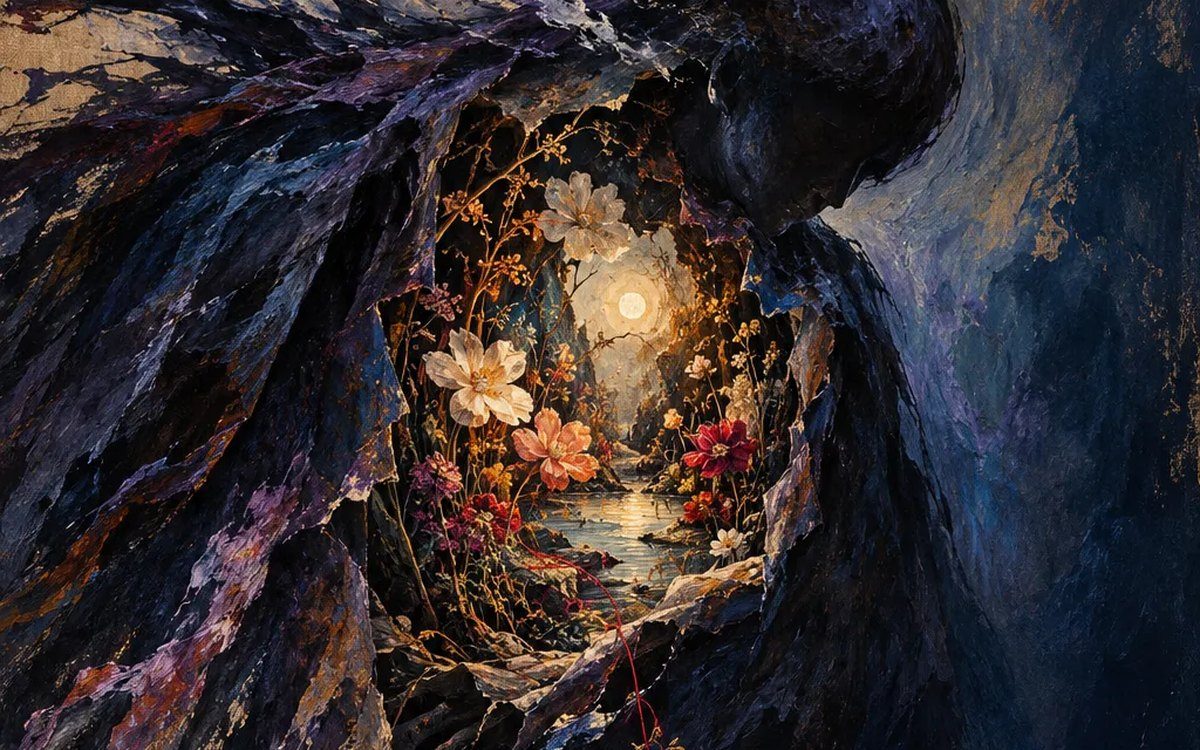
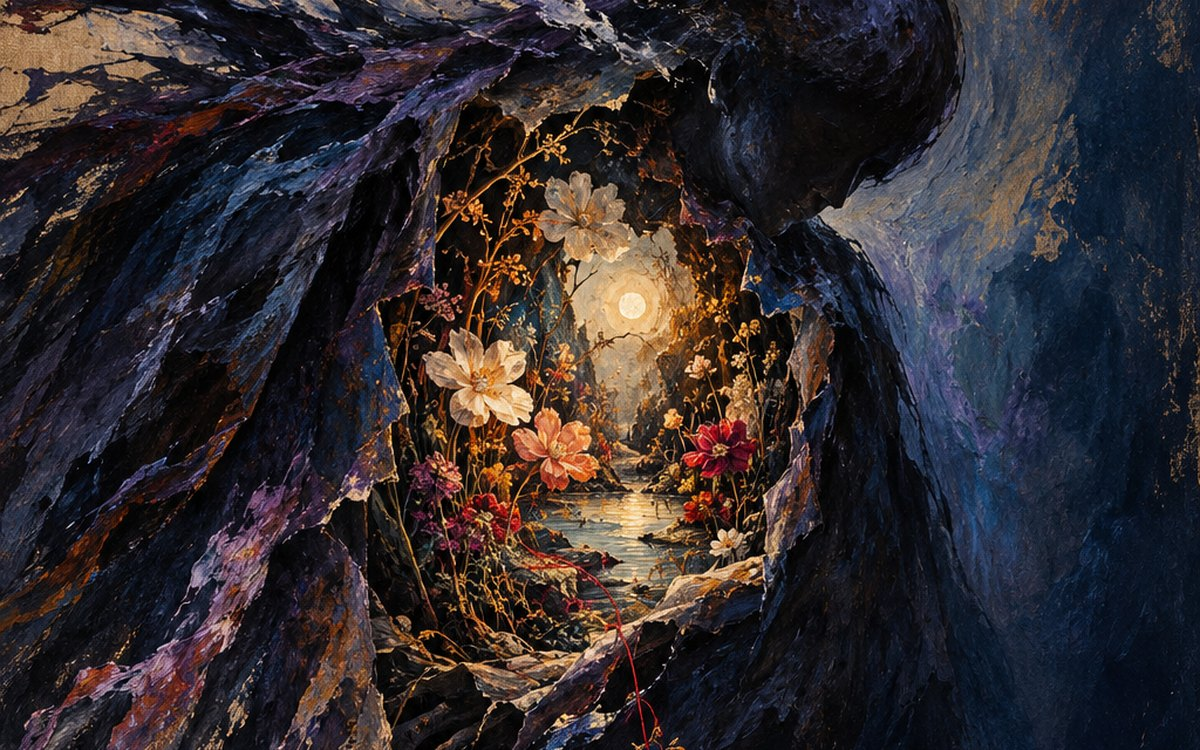
Use the original PNG files for Nos. 06 and 07
Claude-Session: https://claude.ai/code/session_01QQf3zZbCcd9kfNemCMkmx7

Changed region(s): [[0.4008, 0.7667, 0.4317, 0.7973], [0.4008, 0.3987, 0.4317, 0.4293], [0.4008, 0.3373, 0.4317, 0.368]]

diff --git a/gpt61sol-felure/index.html b/gpt61sol-felure/index.html
@@ -13,7 +13,7 @@
 
   <!--
     Presentation page written for the gallery.
-    The image (image.webp), the title, the French poem and its English
+    The image (image.png), the title, the French poem and its English
     translation are the model's work, unchanged.
   -->
 </head>
@@ -24,7 +24,7 @@
 
   <main>
     <figure>
-      <img src="image.webp" width="1024" height="1536"
+      <img src="image.png" width="1024" height="1536"
            alt="Peinture sombre en bleus nuit et violets : une immense silhouette penchée, faite de matière déchirée comme un orage. Sa poitrine s'ouvre sur un jardin lumineux de fleurs, avec une rivière et une lune. Un fil rouge en sort et descend à travers la nuit jusqu'à une minuscule fleur blanche qui pousse dans une fissure de la roche.">
     </figure>
 

diff --git a/gpt6astra-deborde/index.html b/gpt6astra-deborde/index.html
@@ -13,7 +13,7 @@
 
   <!--
     Presentation page written for the gallery.
-    The image (image.webp), the title, the French poem and its English
+    The image (image.png), the title, the French poem and its English
     translation are the model's work, unchanged.
   -->
 </head>
@@ -24,7 +24,7 @@
 
   <main>
     <figure>
-      <img src="image.webp" width="1024" height="1536"
+      <img src="image.png" width="1024" height="1536"
            alt="Peinture en violets et indigos : un immense visage endormi occupe le ciel nocturne. De sa joue s'échappe une cascade de rubans rouges, de fleurs pâles, d'oiseaux blancs, d'escaliers et de petites maisons, qui descend vers une porte éclairée où une minuscule silhouette tend la main vers un ruban.">
     </figure>
 

diff --git a/README.md b/README.md
@@ -24,7 +24,7 @@ Each work's notes, interaction controls and the model's own description are on t
 
 ## Conservation
 
-- Each work lives in its own folder as the single `index.html` the model produced, with no human edits, including the occasional harmless bug. Works made as claude.ai artifacts are kept as the page claude.ai serves. Still images (`image.webp`) are shown on a simple presentation page written for the gallery.
+- Each work lives in its own folder as the single `index.html` the model produced, with no human edits, including the occasional harmless bug. Works made as claude.ai artifacts are kept as the page claude.ai serves. Still images (`image.png`, the original files) are shown on a simple presentation page written for the gallery.
 - The gallery previews in `assets/thumbs/` are unretouched screenshots of the running pieces, or crops of still images.
 - The gallery page (`index.html`) and this README were written by language models.
 
